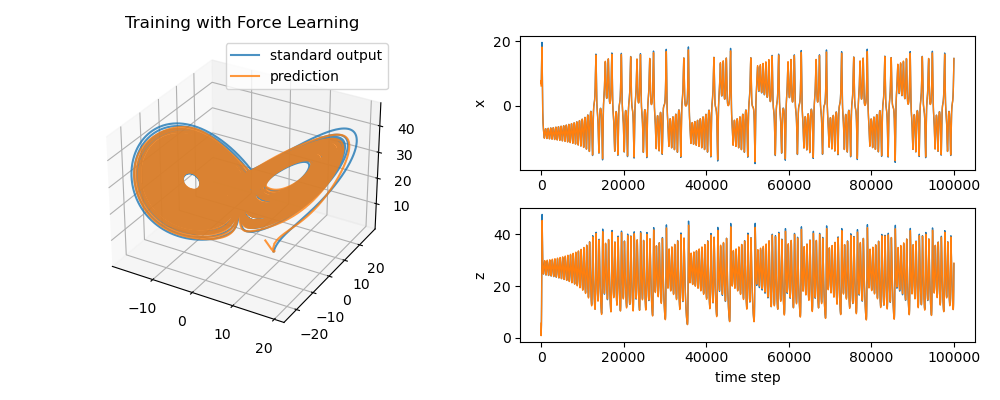
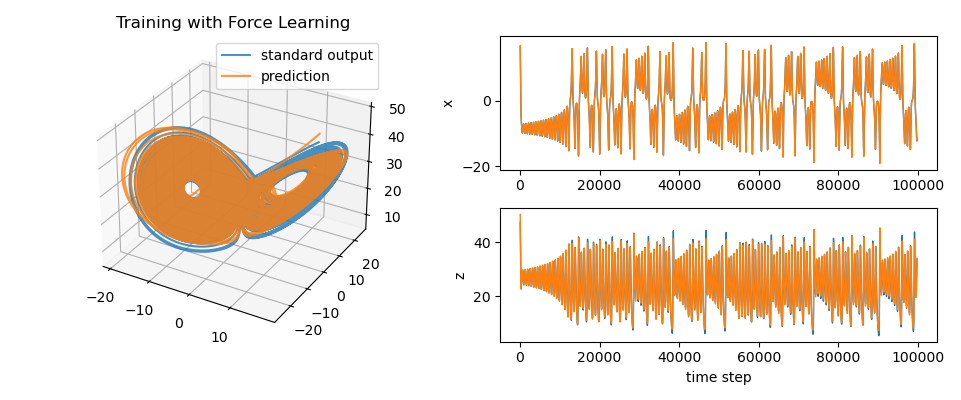
update ESN training

diff --git a/network_training/ESN_training.py b/network_training/ESN_training.py
@@ -3,13 +3,14 @@ import brainpy.math as bm
 import numpy as np
 import matplotlib.pyplot as plt
 
-from network_models.ESN import ESN
+from network_models.ESN3 import ESN
 
 
-num_in = 1
-num_res = 200
-num_out = 1
+bm.enable_x64()  # 使用更高精度的float以提高训练精度
+
+num_in, num_res, num_out = 1, 600, 1
 num_step = 1000  # 模拟总步长
+num_discard = 200  # 训练时，丢弃掉前200个数据
 
 def plot_result(output, Y, title):
   assert output.shape == Y.shape
@@ -21,80 +22,57 @@ def plot_result(output, Y, title):
   plt.ylabel('state')
   plt.title(title)
 
-
 # 生成训练数据
-X = bm.linspace(0., bm.pi, num_step)
-U = bm.sin(30*X) + bm.random.normal(scale=0.05, size=num_step)  # 输入
-# U = bm.ones(X.shape)
+n = bm.linspace(0., bm.pi, num_step)
+U = bm.sin(10 * n) + bm.random.normal(scale=0.1, size=num_step)  # 输入
 U = U.reshape((1, -1, num_in))  # 维度：(num_batch, num_step, num_dim)
-Y = bm.sin(30*X) + bm.sin(50 * (X + bm.pi/2)) + bm.sin(70 * (X + bm.pi/4)) \
-    + bm.random.normal(scale=0.05, size=num_step)   # 标准输出
+Y = bm.power(bm.sin(10 * n), 7)  # 输出
 Y = Y.reshape((1, -1, num_out))  # 维度：(num_batch, num_step, num_dim)
 
-# U = bm.random.random((1, num_step, num_in))
-# Y = bm.random.random((1, num_step, num_out))
-
-model = ESN(num_in, num_res, num_out, lambda_max=0.9)
-W = model.r.Wrec.value
-bm.where(W > 0, 0.4, W)
-bm.where(W < 0, -0.4, W)
-model.r.Wrec.value = W
+model = ESN(num_in, num_res, num_out, lambda_max=0.95)
 
 # 训练前，运行模型得到结果
-runner = bp.train.DSTrainer(model, monitors=['r.state'])
+runner = bp.train.DSTrainer(model, monitors=['state'])
 untrained_out = runner.predict(U)
-print(bp.losses.mean_absolute_error(untrained_out, Y))
+print(bp.losses.mean_absolute_error(untrained_out[:, num_discard:], Y[:, num_discard:]))
 
-
-from sklearn import linear_model
-
-# trainer = linear_model.Ridge(fit_intercept=False, alpha=0.0)
-trainer = linear_model.LinearRegression(fit_intercept=False)
-trainer.fit(runner.mon['r.state'].squeeze()[200:], Y.squeeze()[200:])
-model.o.W.value = bm.asarray(trainer.coef_.reshape(-1, 1))
-
-# # # 用岭回归进行训练
-# trainer = bp.train.RidgeTrainer(model, alpha=0.)
-# trainer.fit([U, Y])
+# 用岭回归法进行训练
+trainer = bp.train.RidgeTrainer(model, alpha=1e-12)
+trainer.fit([U[:, num_discard:], Y[:, num_discard:]])
 
 # 训练后，运行模型得到结果
-runner = bp.train.DSTrainer(model, monitors=['r.state'])
+runner = bp.train.DSTrainer(model, monitors=['state'])
 out = runner.predict(U)
-print(bp.losses.mean_absolute_error(out, Y))
-
+print(bp.losses.mean_absolute_error(out[:, num_discard:], Y[:, num_discard:]))
 
 # 可视化
 plt.figure(figsize=(12, 4.5))
-plt.subplot(121)
-plot_result(untrained_out.flatten(), Y.flatten(), 'before training')
-plt.subplot(122)
-plot_result(out.flatten(), Y.flatten(), 'after training')
+ax1 = plt.subplot(121)
+plot_result(untrained_out.flatten()[num_discard:], Y.flatten()[num_discard:], 'before training')
+ax2 = plt.subplot(122, sharey=ax1)
+plot_result(out.flatten()[num_discard:], Y.flatten()[num_discard:], 'after training')
 
-plt.show()
+# plt.show()
+plt.savefig('E:\\2021-2022RA\\神经计算建模实战\\NeuralModeling\\images_network_models\\'
+              'ESN_sin_training.png')
 
-# # input-output
-# print(model(dict(), bm.ones((1, num_in))))
-#
-# X = bm.random.random((1, 200, num_in))
-# Y = bm.random.random((1, 200, num_out))
-#
-# # prediction
-# runner = bp.train.DSTrainer(model, monitors=['state'])
-# outputs = runner.predict(X)
-# print(runner.mon['state'].shape)
-# print(bp.losses.mean_absolute_error(outputs, Y))
-# print()
-#
-# # training
-# trainer = bp.train.RidgeTrainer(model)
-# trainer.fit([X, Y])
-#
-# # prediction
-# runner = bp.train.DSTrainer(model, monitors=['state'])
-# outputs = runner.predict(X)
-# print(runner.mon['state'].shape)
-# print(bp.losses.mean_absolute_error(outputs, Y))
-# print()
-#
-# outputs = trainer.predict(X)
-# print(bp.losses.mean_absolute_error(outputs, Y))
+
+plt.figure(figsize=(12, 3))
+state = runner.mon['state'].squeeze()
+i1, i2, i3, i4 = tuple(np.random.choice(np.arange(num_res), 4, replace=False))
+ax = plt.subplot(131)
+plt.plot(np.arange(num_step - num_discard), state[num_discard:, i1])
+plt.title('neuron {}'.format(i1))
+plt.xlabel('running step')
+plt.subplot(132, sharey=ax)
+plt.plot(np.arange(num_step - num_discard), state[num_discard:, i2])
+plt.title('neuron {}'.format(i2))
+plt.xlabel('running step')
+plt.subplot(133, sharey=ax)
+plt.plot(np.arange(num_step - num_discard), state[num_discard:, i3])
+plt.title('neuron {}'.format(i3))
+plt.xlabel('running step')
+plt.tight_layout()
+# plt.show()
+plt.savefig('E:\\2021-2022RA\\神经计算建模实战\\NeuralModeling\\images_network_models\\'
+              'ESN_sin_example_neurons.png')

diff --git a/network_analysis/ESN_lorenz_training.py b/network_analysis/ESN_lorenz_training.py
@@ -5,22 +5,22 @@ import numpy as np
 
 from network_models.ESN3 import ESN
 
+bm.enable_x64()
 
 # 从brainpy中获取劳伦兹系统的数据
 lorenz = bp.datasets.lorenz_series(100)
 data = bm.hstack([lorenz['x'], lorenz['y'], lorenz['z']])
 
-X, Y = data[:-5], data[5:]  # Y比X滞后5个步长，即需要预测系统未来的Y
+X, Y = data[:-200], data[200:]  # Y比X提前200个步长，即需要预测系统未来的Y
 # 将第0维扩展为batch的维度
 X = bm.expand_dims(X, axis=0)
 Y = bm.expand_dims(Y, axis=0)
 
 
-num_in = 3
-num_res = 200
-num_out = 3
+num_in, num_res, num_out = 3, 200, 3
 num_step = 500
 num_batch = 1
+num_discard = 50
 
 model = ESN(num_in, num_res, num_out, lambda_max=0.9)
 
@@ -32,27 +32,30 @@ def training_lorenze(trainer, title):
 
   fig = plt.figure(figsize=(10, 4))
   fig.add_subplot(121, projection='3d')
-  plt.plot(Y[0, :, 0], Y[0, :, 1], Y[0, :, 2], alpha=0.8, label='standard output')
-  plt.plot(predict[0, :, 0], predict[0, :, 1], predict[0, :, 2], alpha=0.8, label='prediction')
+  # 画图时舍去最初20个步长的数据，下同
+  plt.plot(Y[0, num_discard:, 0], Y[0, num_discard:, 1], Y[0, num_discard:, 2],
+           alpha=0.8, label='standard output')
+  plt.plot(predict[0, num_discard:, 0], predict[0, num_discard:, 1], predict[0, num_discard:, 2],
+           alpha=0.8, label='prediction')
   plt.title(title)
   plt.legend()
 
   fig.add_subplot(222)
-  t = np.arange(Y.shape[1])
-  plt.plot(t, Y[0, :, 0], linewidth=1, label='standard $x$')  # 劳伦兹系统中的x变量
-  plt.plot(t, predict[0, :, 0], linewidth=1, label='predicted $x$')
+  t = np.arange(Y.shape[1])[num_discard:]
+  plt.plot(t, Y[0, num_discard:, 0], linewidth=1, label='standard $x$')  # 劳伦兹系统中的x变量
+  plt.plot(t, predict[0, num_discard:, 0], linewidth=1, label='predicted $x$')
   plt.ylabel('x')
 
   fig.add_subplot(224)
-  plt.plot(t, Y[0, :, 2], linewidth=1,label='standard $z$')  # 劳伦兹系统中的z变量
-  plt.plot(t, predict[0, :, 2], linewidth=1, label='predicted $z$')
+  plt.plot(t, Y[0, num_discard:, 2], linewidth=1,label='standard $z$')  # 劳伦兹系统中的z变量
+  plt.plot(t, predict[0, num_discard:, 2], linewidth=1, label='predicted $z$')
   plt.ylabel('z')
   plt.xlabel('time step')
 
   plt.tight_layout()
-  # plt.show()
-  plt.savefig('E:\\2021-2022RA\\神经计算建模实战\\NeuralModeling\\images_network_models\\'
-              'ESN_lorenz_{}.png'.format(title[14:]))
+  plt.show()
+  # plt.savefig('E:\\2021-2022RA\\神经计算建模实战\\NeuralModeling\\images_network_models\\'
+  #             'ESN_lorenz_{}.png'.format(title[14:]))
 
 # 用岭回归法训练
 ridge_trainer = bp.train.OfflineTrainer(model, fit_method=bp.algorithms.RidgeRegression(alpha=1e-6))

diff --git a/network_analysis/ESN_output.py b/network_analysis/ESN_output.py
@@ -82,40 +82,3 @@ plt.tight_layout()
 plt.show()
 # plt.savefig('E:\\2021-2022RA\\神经计算建模实战\\NeuralModeling\\images_network_models\\'
 #             'ESN_state_distance.png')
-
-
-
-
-
-# from network_models.ESN import ESN
-#
-# model1 = ESN(num_in, num_res, num_out, lambda_max=0.8)
-# model2 = ESN(num_in, num_res, num_out, lambda_max=0.8)
-#
-# # inputs = bm.random.randn(num_step, num_in)
-# inputs = bm.random.random((1, num_step, num_in))
-#
-# runner1 = bp.train.DSTrainer(model1, monitors=['r.state'])
-# runner1.predict(inputs)
-# runner2 = bp.train.DSTrainer(model2, monitors=['r.state'])
-# runner2.predict(inputs)
-# # print(runner1.mon['r.state'].shape)
-#
-# dist0 = np.sqrt(np.sum(np.square(model1.r.state - model2.r.state), axis=1))
-# print(dist0)
-#
-# # runner1 = bp.dyn.DSRunner(model1, monitors=['state'])
-# # runner1.run(duration, inputs)
-#
-# # runner2 = bp.dyn.DSRunner(model2, monitors=['state'])
-# # runner2.run(duration, inputs)
-#
-# print(runner1.mon['r.state'].shape)
-# state1 = runner1.mon['r.state'].squeeze()
-# state2 = runner2.mon['r.state'].squeeze()
-#
-# distance = np.sqrt(np.sum(np.square(state1 - state2), axis=1))
-#
-# plt.plot(runner1.mon['ts'], distance)
-#
-# plt.show()
